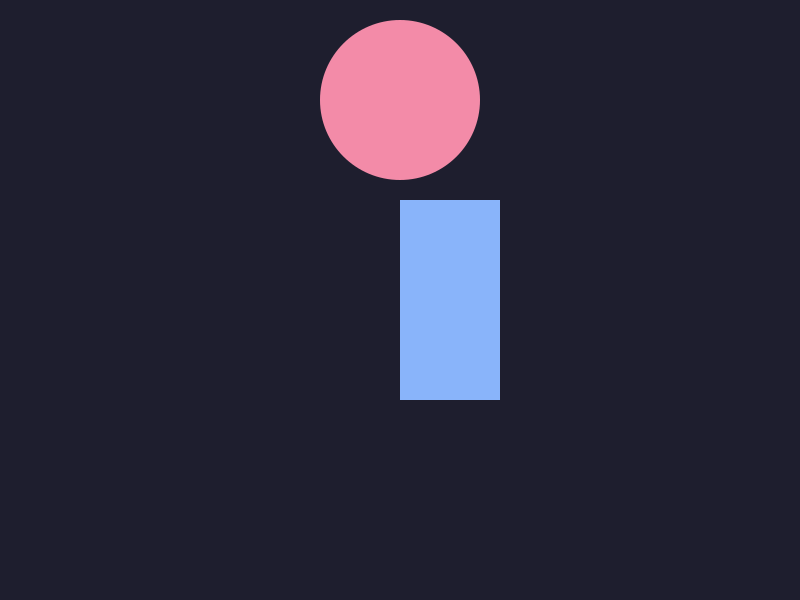
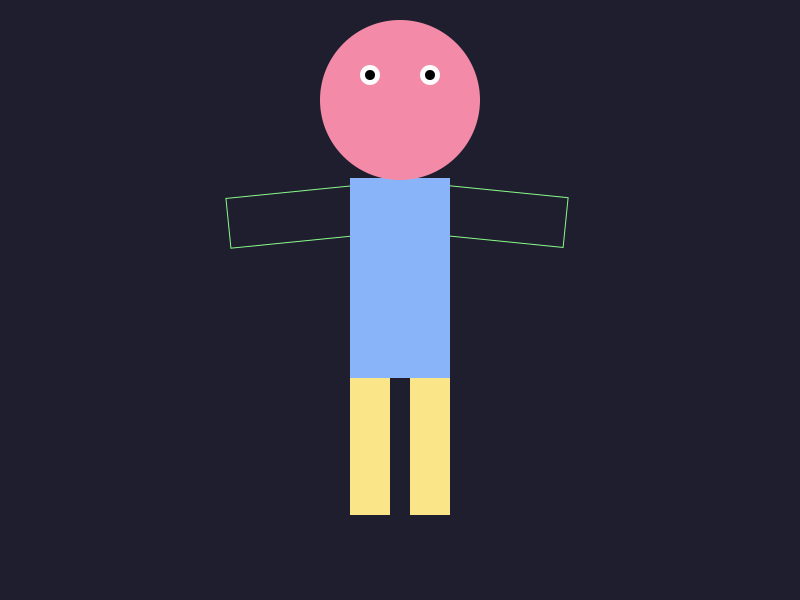
update: terminado o desenho do exercício1

diff --git a/atividade 2/exercicio1.js b/atividade 2/exercicio1.js
@@ -9,14 +9,57 @@ ctx.fillStyle = '#1e1e2e';
 ctx.fillRect(0, 0, 800, 600);
 
 // Retângulo
+ctx.rotate(-0.1);
+ctx.strokeStyle = '#89fa89';
+ctx.strokeRect(205, 220, 150, 50);
+ctx.rotate(0.1);
+
+ctx.rotate(0.1);
+ctx.strokeStyle = '#89fa89';
+ctx.strokeRect(435, 140, 150, 50);
+ctx.rotate(-0.1);
+
+ctx.fillStyle = '#fae589';
+ctx.fillRect(410, 375, 40, 140);
+
+ctx.fillStyle = '#fae589';
+ctx.fillRect(350, 375, 40, 140);
+
 ctx.fillStyle = '#89b4fa';
-ctx.fillRect(400, 200, 100, 200);
+ctx.fillRect(350, 178, 100, 200);
+
 
 // Círculo
 ctx.beginPath();
 ctx.arc(400, 100, 80, 0, Math.PI * 2);
 ctx.fillStyle = '#f38ba8';
 ctx.fill();
+ctx.closePath();
+
+ctx.beginPath();
+ctx.arc(370, 75, 10, 0, Math.PI * 2);
+ctx.fillStyle = '#ffffff';
+ctx.fill();
+ctx.closePath();
+
+ctx.beginPath();
+ctx.arc(370, 75, 5, 0, Math.PI * 2);
+ctx.fillStyle = '#030303';
+ctx.fill();
+ctx.closePath();
+
+ctx.beginPath();
+ctx.arc(430, 75, 10, 0, Math.PI * 2);
+ctx.fillStyle = '#ffffff';
+ctx.fill();
+ctx.closePath();
+
+ctx.beginPath();
+ctx.arc(430, 75, 5, 0, Math.PI * 2);
+ctx.fillStyle = '#030303';
+ctx.fill();
+ctx.closePath();
+
 
 // Exportação em PNG
 const buffer = canvas.toBuffer('image/png');
